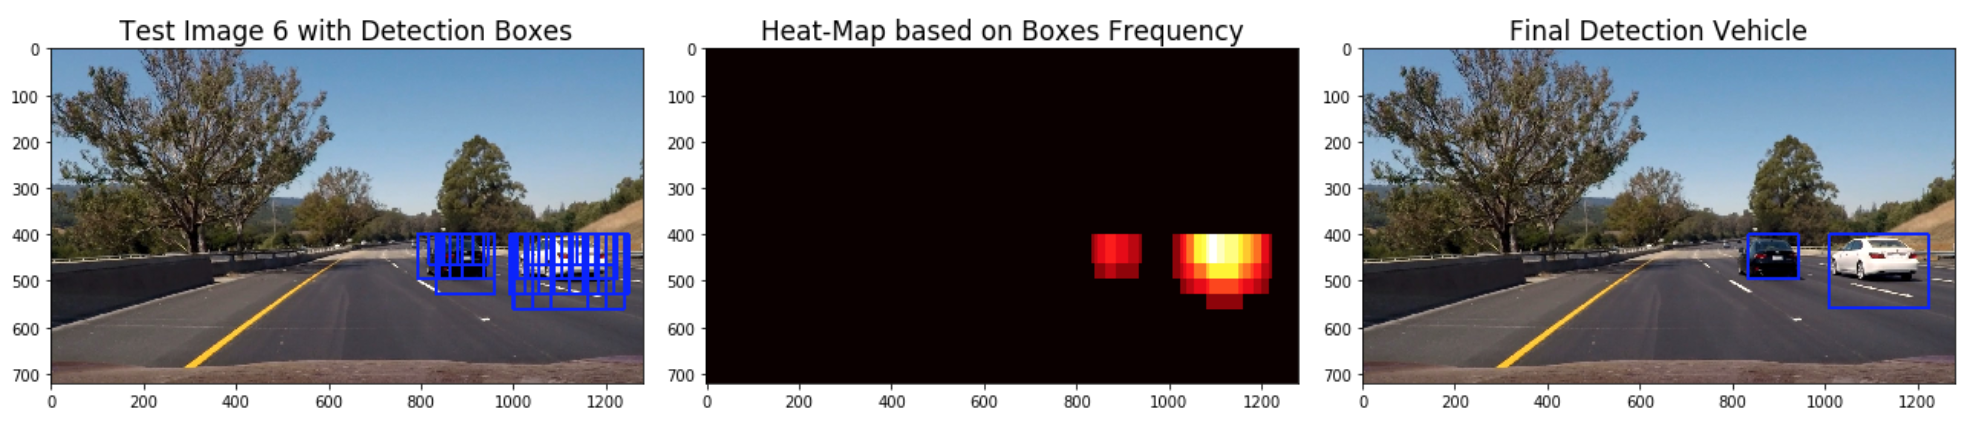
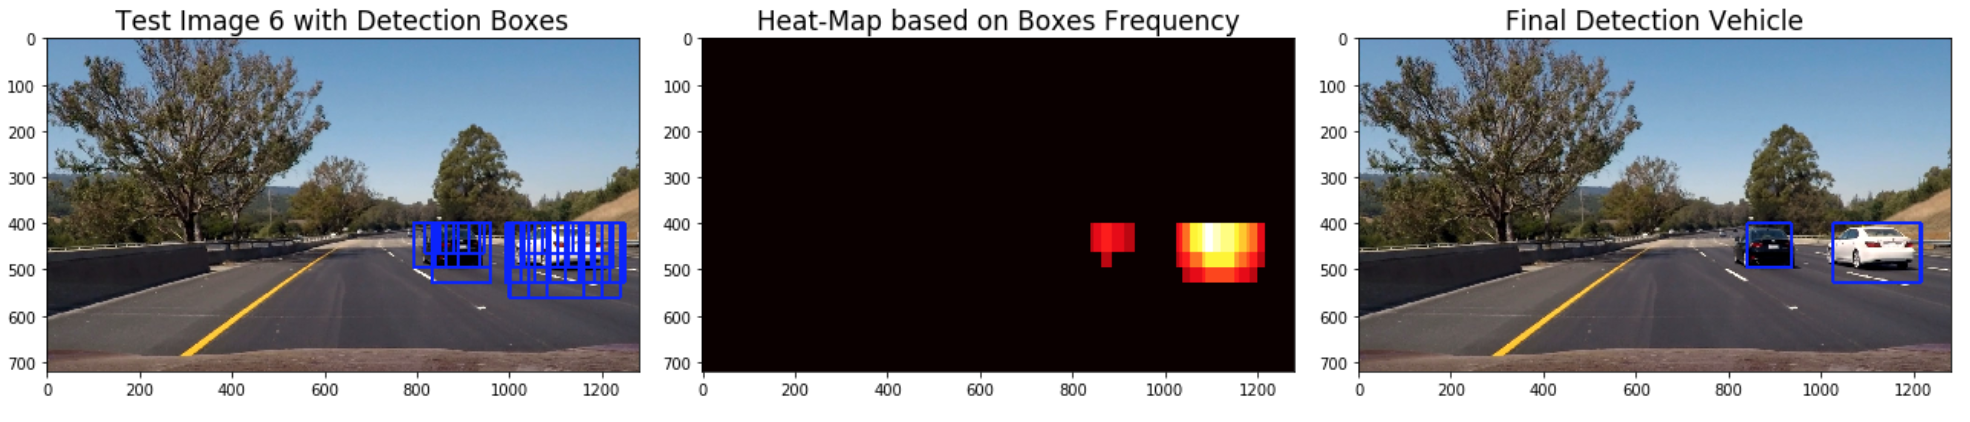
update

Changed region(s): [[0.0, 0.0308, 0.9909, 0.955], [0.0, 0.7085, 0.0619, 0.8009], [0.3096, 0.1848, 0.3716, 0.2464]]

diff --git a/Computer_Vision/Vehicle_Detection_Tracking/README.md b/Computer_Vision/Vehicle_Detection_Tracking/README.md
@@ -147,7 +147,7 @@ From the result Sliding Window Search, there are some overlapping windows (boxes
 In order to identify True Positive windows (Detected Vehicle), I used heatmap based on the number of overlapped windows (boxes), then apply threshold in the heatmap. The library, [`scipy.ndimage.measurements.label()`](https://docs.scipy.org/doc/scipy-0.16.0/reference/generated/scipy.ndimage.measurements.label.html), help to draw heatmap.<br>
 
 ##### Windows Detection + Heatmap + Threshold**  <br>
-<img src="./readme_images/result_03.png" width="920" height="320" alt="Combined Image" /><br />
+<img src="./readme_images/result_03.png" width="920" height="300" alt="Combined Image" /><br />
 
 
 
